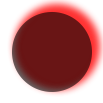
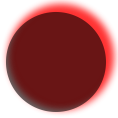
increase test data size to pass tests on macos

diff --git a/internal/painter/software/painter_test.go b/internal/painter/software/painter_test.go
@@ -132,8 +132,8 @@ func TestPainter_paintCircle_shadow(t *testing.T) {
 	c := test.NewCanvas()
 	c.SetPadded(true)
 	c.SetContent(obj)
-	c.Resize(fyne.NewSize(95+2*theme.Padding(), 95+2*theme.Padding()))
-	obj.Resize(fyne.NewSize(80, 80))
+	c.Resize(fyne.NewSize(110+2*theme.Padding(), 110+2*theme.Padding()))
+	obj.Resize(fyne.NewSize(100, 100))
 	obj.Move(fyne.NewPos(15, 12))
 	p := software.NewPainter()
 
@@ -653,9 +653,9 @@ func TestPainter_paintRectangle_shadow(t *testing.T) {
 	c := test.NewCanvas()
 	c.SetPadded(true)
 	c.SetContent(obj)
-	c.Resize(fyne.NewSize(95+2*theme.Padding(), 95+2*theme.Padding()))
-	obj.Resize(fyne.NewSize(80, 80))
-	obj.Move(fyne.NewPos(12, 12))
+	c.Resize(fyne.NewSize(110+2*theme.Padding(), 110+2*theme.Padding()))
+	obj.Resize(fyne.NewSize(100, 100))
+	obj.Move(fyne.NewPos(8, 12))
 	p := software.NewPainter()
 
 	test.AssertImageMatches(t, "draw_rectangle_box_shadow.png", p.Paint(c))
@@ -686,9 +686,9 @@ func TestPainter_paintRectangle_stroke_shadow(t *testing.T) {
 	c := test.NewCanvas()
 	c.SetPadded(true)
 	c.SetContent(obj)
-	c.Resize(fyne.NewSize(95+2*theme.Padding(), 95+2*theme.Padding()))
-	obj.Resize(fyne.NewSize(80, 80))
-	obj.Move(fyne.NewPos(12, 12))
+	c.Resize(fyne.NewSize(110+2*theme.Padding(), 110+2*theme.Padding()))
+	obj.Resize(fyne.NewSize(100, 100))
+	obj.Move(fyne.NewPos(10, 10))
 	p := software.NewPainter()
 
 	test.AssertImageMatches(t, "draw_rectangle_stroke_drop_shadow.png", p.Paint(c))
@@ -705,9 +705,6 @@ func TestPainter_paintRectangle_stroke_shadow(t *testing.T) {
 	test.AssertImageMatches(t, "draw_rectangle_stroke_wide_box_shadow.png", p.Paint(c))
 	obj.Aspect = 0.5
 	test.AssertImageMatches(t, "draw_rectangle_stroke_narrow_box_shadow.png", p.Paint(c))
-
-	obj.Shadow.Spread = 3
-	test.AssertImageMatches(t, "draw_rectangle_stroke_narrow_box_shadow_spread.png", p.Paint(c))
 }
 
 func TestPainter_paintRectangle_shadow_spread(t *testing.T) {
@@ -722,9 +719,9 @@ func TestPainter_paintRectangle_shadow_spread(t *testing.T) {
 	c := test.NewCanvas()
 	c.SetPadded(true)
 	c.SetContent(obj)
-	c.Resize(fyne.NewSize(95+2*theme.Padding(), 95+2*theme.Padding()))
-	obj.Resize(fyne.NewSize(80, 80))
-	obj.Move(fyne.NewPos(15, 8))
+	c.Resize(fyne.NewSize(110+2*theme.Padding(), 110+2*theme.Padding()))
+	obj.Resize(fyne.NewSize(100, 100))
+	obj.Move(fyne.NewPos(15, 6))
 	p := software.NewPainter()
 
 	obj.Shadow.Spread = 0
@@ -752,9 +749,9 @@ func TestPainter_paintCircle_shadow_spread(t *testing.T) {
 	c := test.NewCanvas()
 	c.SetPadded(true)
 	c.SetContent(obj)
-	c.Resize(fyne.NewSize(95+2*theme.Padding(), 95+2*theme.Padding()))
-	obj.Resize(fyne.NewSize(80, 80))
-	obj.Move(fyne.NewPos(12, 12))
+	c.Resize(fyne.NewSize(110+2*theme.Padding(), 110+2*theme.Padding()))
+	obj.Resize(fyne.NewSize(100, 100))
+	obj.Move(fyne.NewPos(6, 12))
 	p := software.NewPainter()
 
 	obj.Shadow.Spread = 0

diff --git a/canvas/rectangle_test.go b/canvas/rectangle_test.go
@@ -132,9 +132,9 @@ func TestRectangle_shadow(t *testing.T) {
 
 	c := software.NewCanvas()
 	c.SetContent(rect)
-	c.Resize(fyne.NewSize(70, 70))
-	rect.Resize(fyne.NewSize(55, 55))
-	rect.Move(fyne.NewPos(12, 10))
+	c.Resize(fyne.NewSize(150, 150))
+	rect.Resize(fyne.NewSize(120, 120))
+	rect.Move(fyne.NewPos(20, 18))
 	test.AssertRendersToImage(t, "rounded_rect_stroke_shadow.png", c)
 
 	rect.StrokeWidth = 0

diff --git a/canvas/circle_test.go b/canvas/circle_test.go
@@ -71,9 +71,9 @@ func TestCircle_shadow(t *testing.T) {
 
 	c := software.NewCanvas()
 	c.SetContent(circle)
-	c.Resize(fyne.NewSize(70, 70))
-	circle.Resize(fyne.NewSize(55, 55))
-	circle.Move(fyne.NewPos(5, 5))
+	c.Resize(fyne.NewSize(270, 270))
+	circle.Resize(fyne.NewSize(250, 250))
+	circle.Move(fyne.NewPos(6, 6))
 	test.AssertRendersToImage(t, "circle_stroke_shadow.png", c)
 
 	circle.StrokeWidth = 0

diff --git a/internal/painter/gl/draw_test.go b/internal/painter/gl/draw_test.go
@@ -106,7 +106,7 @@ func TestVecRectCoordsWithPad_Shadow(t *testing.T) {
 
 	rect.Shadow = canvas.Shadow{
 		FillColor:  color.NRGBA{R: 0, G: 0, B: 0, A: 255},
-		Offset:     fyne.NewPos(-30, -20),
+		Offset:     fyne.NewPos(30, -20),
 		BlurRadius: 80,
 	}
 
